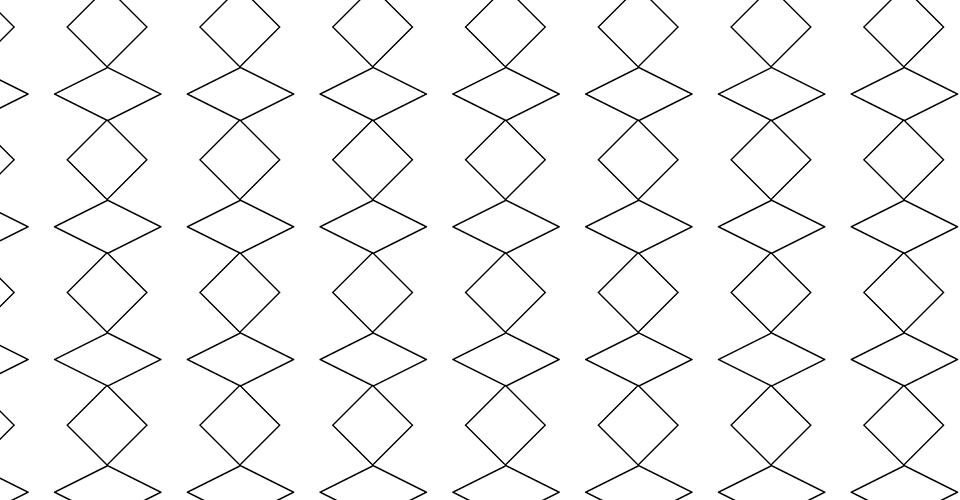
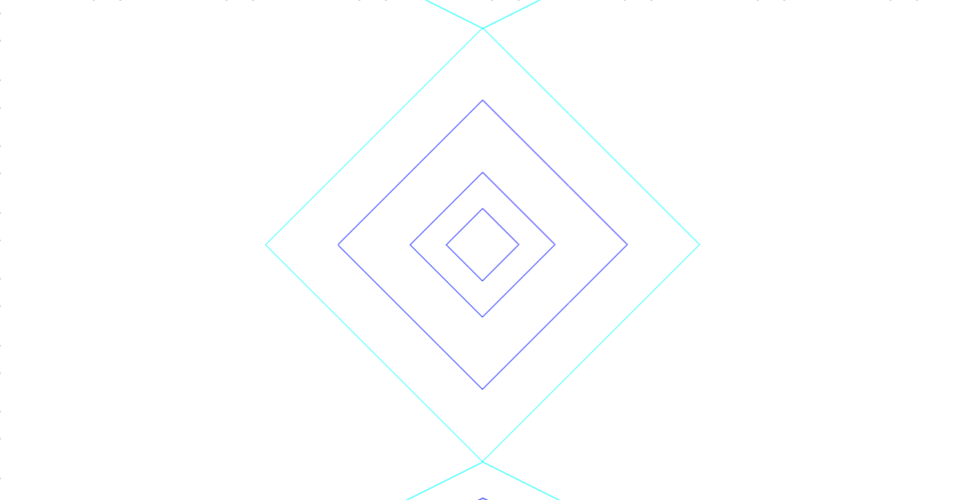
change appearance

diff --git a/drawgrid.js b/drawgrid.js
@@ -41,34 +41,78 @@ function waveform (p5, x, y, x1, x2, y1, y2){
   p5.line(x_pos, y_pos_3, x_pos_line, y_pos_line_2);
   p5.line(x_pos, y_pos_3, x_pos_line_2, y_pos_line_2);
 }
+//draw quad when zoom 3
 function smallWave (p5, x, y, x1, x2, y1, y2){
-  //share same y for 2nd pt
-  let y_small_2 = p5.map(y - 20, y1, y2, 0, 256);
-  //share 1st and 2nd (left side)
-  let x_small = p5.map(x - 15, x1, x2, 0, 256);
-  let y_small = p5.map(y - 32.5, y1, y2, 0, 256);
-  let y_small_3 = p5.map(y - 7.5, y1, y2, 0, 256);
-  let x_small_2 = p5.map(x, x1, x2, 0, 256);
-  p5.line(x_small, y_small, x_small_2, y_small_2);
-  p5.line(x_small, y_small_3, x_small_2, y_small_2);
+  //center quad group
+  //1st quad
+  let x_pos = p5.map(x, x1, x2, 0, 256);
+  let y_pos = p5.map(y+10, y1, y2, 0, 256);
+  let x_pos_2 = p5.map(x + 20, x1, x2, 0, 256);
+  let y_pos_2 = p5.map(y + 30, y1, y2, 0, 256);
+  let x_pos_3 = p5.map(x - 20, x1, x2, 0, 256);
+  let y_pos_3 = p5.map(y + 50, y1, y2, 0, 256);
+  p5.quad(x_pos, y_pos, x_pos_3, y_pos_2, x_pos, y_pos_3, x_pos_2, y_pos_2);
+  //2nd quad
+  let x_pos_in = p5.map(x, x1, x2, 0, 256);
+  let y_pos_in = p5.map(y+20, y1, y2, 0, 256);
+  let x_pos_in_2 = p5.map(x + 10, x1, x2, 0, 256);
+  let y_pos_in_2 = p5.map(y + 30, y1, y2, 0, 256);
+  let x_pos_in_3 = p5.map(x - 10, x1, x2, 0, 256);
+  let y_pos_in_3 = p5.map(y + 40, y1, y2, 0, 256);
+  p5.quad(x_pos_in, y_pos_in, x_pos_in_3, y_pos_in_2, x_pos_in, y_pos_in_3, x_pos_in_2, y_pos_in_2);
+  //3rd quad
+  let x_pos_in_in = p5.map(x, x1, x2, 0, 256);
+  let y_pos_in_in = p5.map(y+25, y1, y2, 0, 256);
+  let x_pos_in_in_2 = p5.map(x + 5, x1, x2, 0, 256);
+  let y_pos_in_in_2 = p5.map(y + 30, y1, y2, 0, 256);
+  let x_pos_in_in_3 = p5.map(x - 5, x1, x2, 0, 256);
+  let y_pos_in_in_3 = p5.map(y + 35, y1, y2, 0, 256);
+  p5.quad(x_pos_in_in, y_pos_in_in, x_pos_in_in_3, y_pos_in_in_2, x_pos_in_in, y_pos_in_in_3, x_pos_in_in_2, y_pos_in_2);
+}
 
-  //share 3rd and 4th (left side)
-  let x_small_3 = p5.map(x - 26, x1, x2, 0, 256);
-  let y_small_4 = p5.map(y - 13, y1, y2, 0, 256);
-  let x_small_4 = p5.map(x - 17, x1, x2, 0, 256);
-  let y_small_5 = p5.map(y - 27, y1, y2, 0, 256);
-  p5.line(x_small_3, y_small_4, x_small_4, y_small_2);
-  p5.line(x_small_3, y_small_5, x_small_4, y_small_2);
+function upperlowerWave (p5, x, y, x1, x2, y1, y2){
+  //1st
+  let x_pos = p5.map(x, x1, x2, 0, 256);
+  let y_pos = p5.map(y - 5, y1, y2, 0, 256);
+  let x_pos_3 = p5.map(x - 30, x1, x2, 0, 256);
+  let y_pos_3 = p5.map(y + 65, y1, y2, 0, 256);
+  let x_pos_line = p5.map(x - 30, x1, x2, 0, 256);
+  let x_pos_line_2 = p5.map(x + 30, x1, x2, 0, 256);
+  let y_pos_line = p5.map(y - 20, y1, y2, 0, 256);
+  p5.line(x_pos, y_pos, x_pos_line, y_pos_line);
+  p5.line(x_pos, y_pos, x_pos_line_2, y_pos_line);
+  //for bottom lines
+  let y_pos_line_2 = p5.map(y + 80, y1, y2, 0, 256);
+  p5.line(x_pos, y_pos_3, x_pos_line, y_pos_line_2);
+  p5.line(x_pos, y_pos_3, x_pos_line_2, y_pos_line_2);
+  //2nd in
+  let x_pos_in = p5.map(x, x1, x2, 0, 256);
+  let y_pos_in = p5.map(y - 10, y1, y2, 0, 256);
+  let x_pos_in_3 = p5.map(x - 25, x1, x2, 0, 256);
+  let y_pos_in_3 = p5.map(y + 70, y1, y2, 0, 256);
+  let x_pos_line_in = p5.map(x - 20, x1, x2, 0, 256);
+  let x_pos_line_in_2 = p5.map(x + 20, x1, x2, 0, 256);
+  let y_pos_line_in = p5.map(y -20, y1, y2, 0, 256);
+  p5.line(x_pos_in, y_pos_in, x_pos_line_in, y_pos_line_in);
+  p5.line(x_pos_in, y_pos_in, x_pos_line_in_2, y_pos_line_in);
+  //for bottom lines
+  let y_pos_line_in_2 = p5.map(y + 80, y1, y2, 0, 256);
+  p5.line(x_pos_in, y_pos_in_3, x_pos_line_in, y_pos_line_in_2);
+  p5.line(x_pos_in, y_pos_in_3, x_pos_line_in_2, y_pos_line_in_2);
 
-  //share 5th and 6th (left side)
-  let x_small_5 = p5.map(x - 35, x1, x2, 0, 256);
-  let y_small_6 = p5.map(y - 17.5, y1, y2, 0, 256);
-  let x_small_6 = p5.map(x - 30, x1, x2, 0, 256);
-  let y_small_7 = p5.map(y - 22.5, y1, y2, 0, 256);
-  p5.line(x_small_5, y_small_6, x_small_6, y_small_2);
-  p5.line(x_small_5, y_small_7, x_small_6, y_small_2);
-
-  
+  let x_pos_in_in = p5.map(x, x1, x2, 0, 256);
+  let y_pos_in_in = p5.map(y - 15, y1, y2, 0, 256);
+  let x_pos_in_in_3 = p5.map(x - 20, x1, x2, 0, 256);
+  let y_pos_in_in_3 = p5.map(y + 75, y1, y2, 0, 256);
+  let x_pos_line_in_in = p5.map(x - 10, x1, x2, 0, 256);
+  let x_pos_line_in_in_2 = p5.map(x + 10, x1, x2, 0, 256);
+  let y_pos_line_in_in = p5.map(y - 20, y1, y2, 0, 256);
+  p5.line(x_pos_in_in, y_pos_in_in, x_pos_line_in_in, y_pos_line_in_in);
+  p5.line(x_pos_in_in, y_pos_in_in, x_pos_line_in_in_2, y_pos_line_in_in);
+  //for bottom lines
+  let y_pos_line_in_in_2 = p5.map(y + 80, y1, y2, 0, 256);
+  p5.line(x_pos_in_in, y_pos_in_in_3, x_pos_line_in_in, y_pos_line_in_in_2);
+  p5.line(x_pos_in_in, y_pos_in_in_3, x_pos_line_in_in_2, y_pos_line_in_in_2);
 }
 function drawGrid(p5, x1, x2, y1, y2, z, zoom) {
   //setting another variable for animation
@@ -123,10 +167,14 @@ function drawGrid(p5, x1, x2, y1, y2, z, zoom) {
 
       }
       if(zoom >= 2){
-          waveform(p5, x, y, x1, x2, y1, y2);
+        p5.stroke(0,255,255);
+        waveform(p5, x, y, x1, x2, y1, y2);
       }
       if(zoom >= 3){
-          smallWave(p5, x, y, x1, x2, y1, y2);
+        p5.stroke(0,0,255);
+        p5.stroke(siny,sinx*sinx,255);
+        smallWave(p5, x, y, x1, x2, y1, y2);
+        upperlowerWave (p5, x, y, x1, x2, y1, y2);
           //p5.rect(10,10,10,10);
       }
       }

diff --git a/README.md b/README.md
@@ -1,3 +1,3 @@
 ## PS4 MDDN 342 2018
-
-At the moment I am a bit stuggling with the loop animation. I tried to use globaFrameCount to impliment my animation and I currently have no luck with it so I just put simple grid for now.
+I completed the basic part of the overal animation and now I'm going to impliment the animation detail. 
+Currently, I have some idea I want to change from my first initial sketch and I believe it will look better for the final product. 
